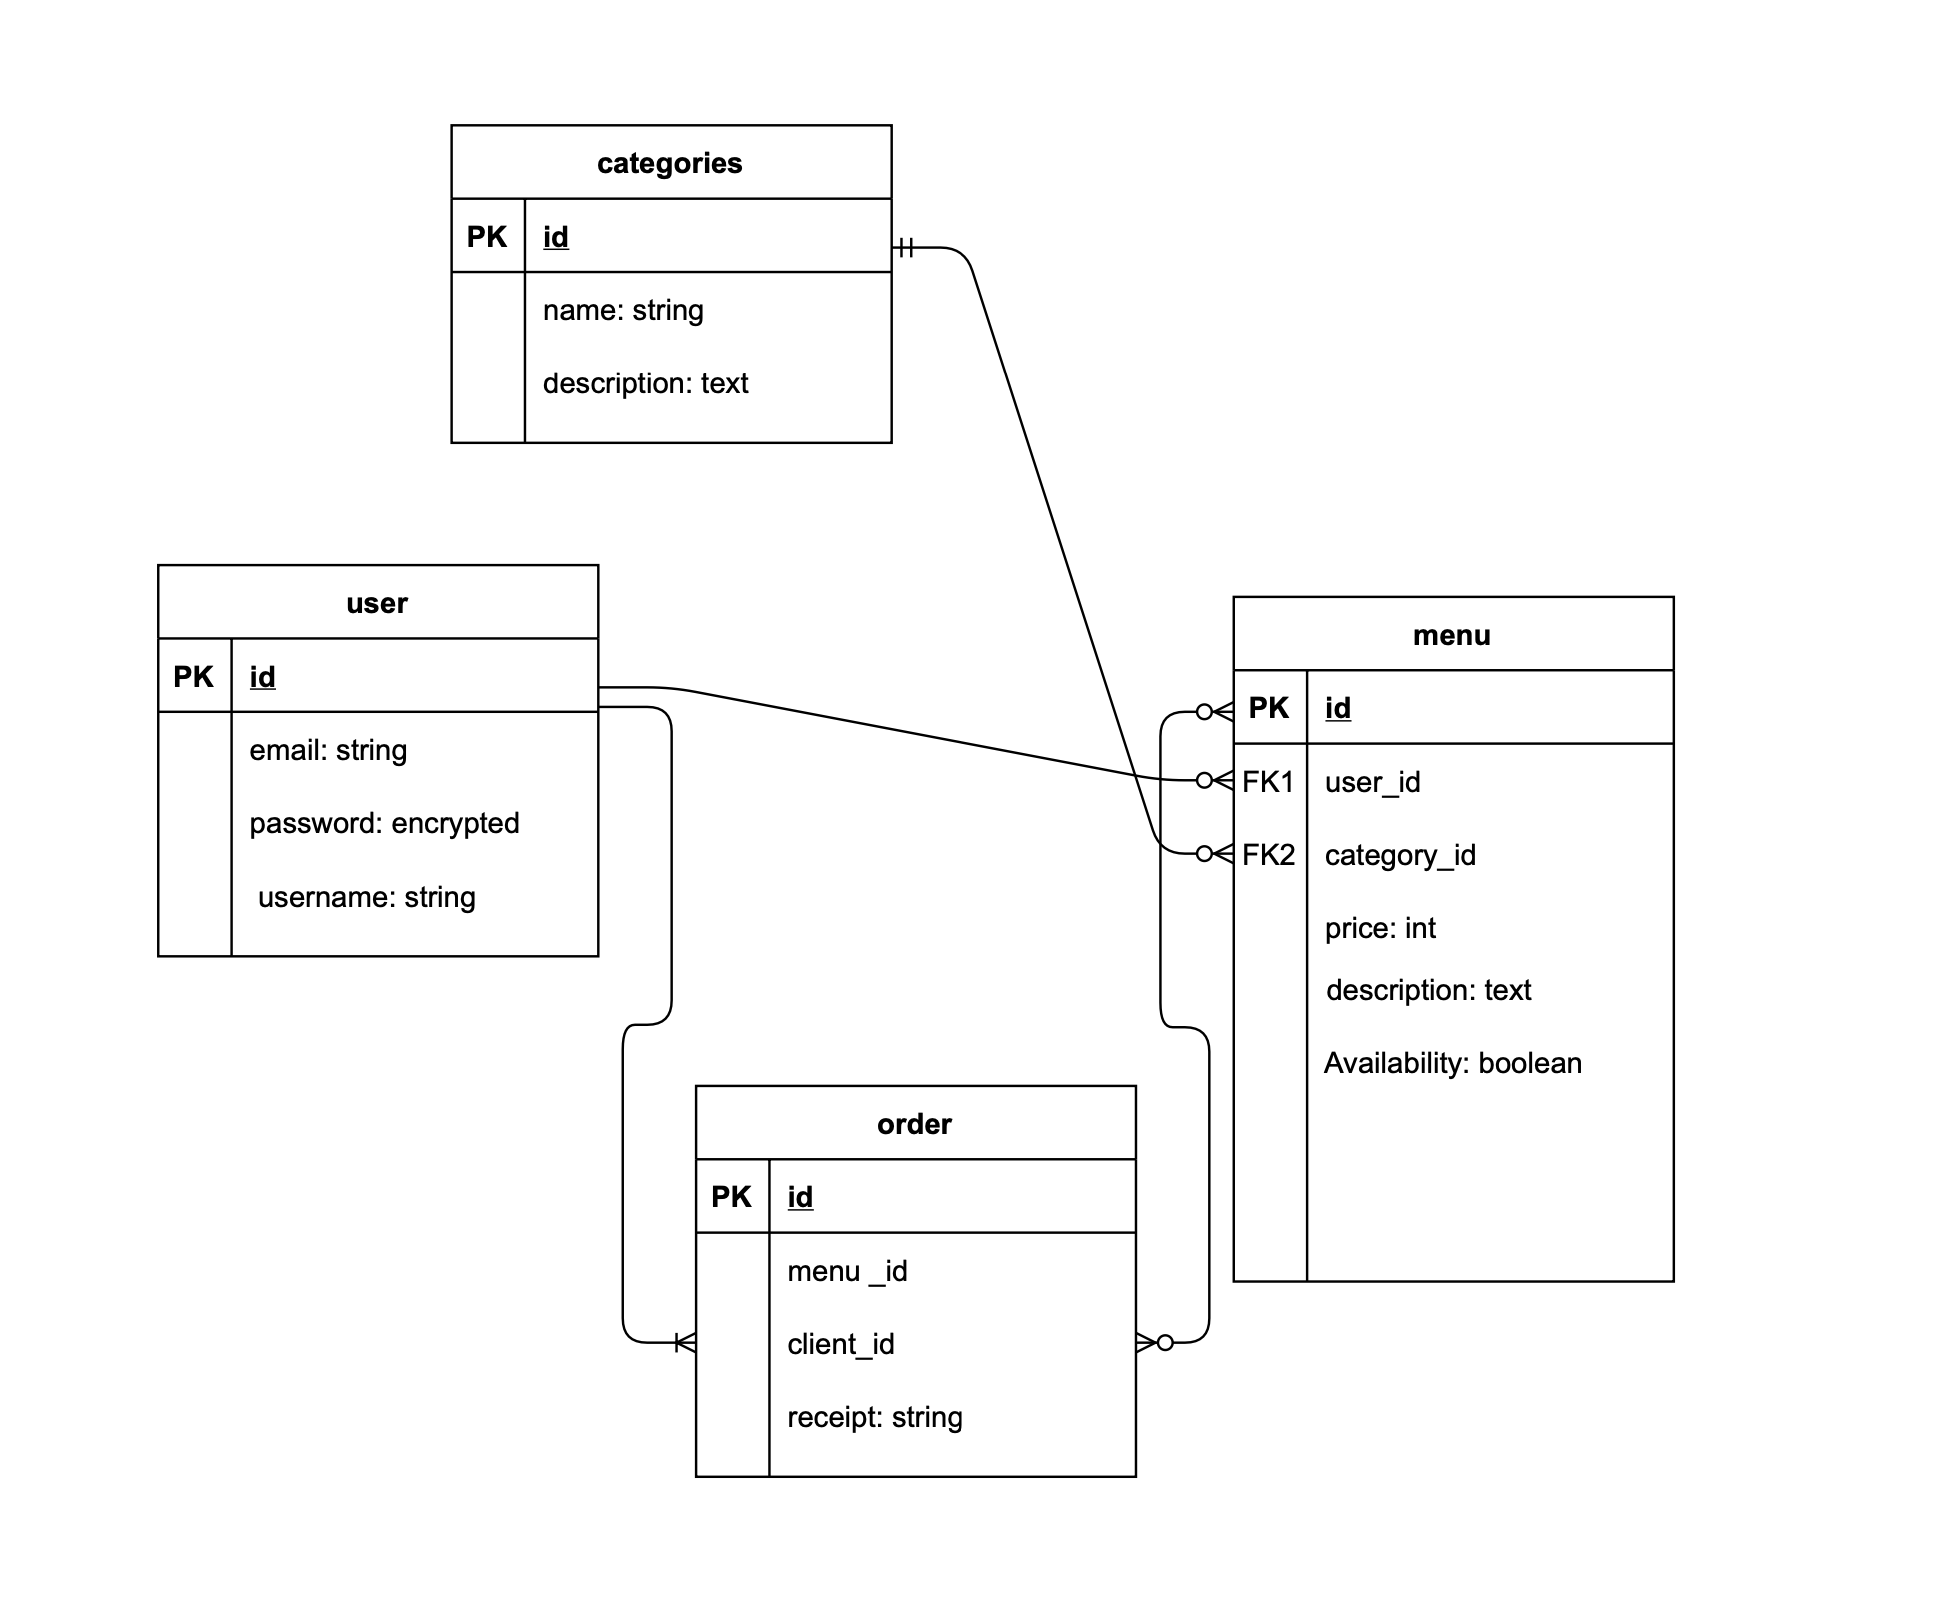
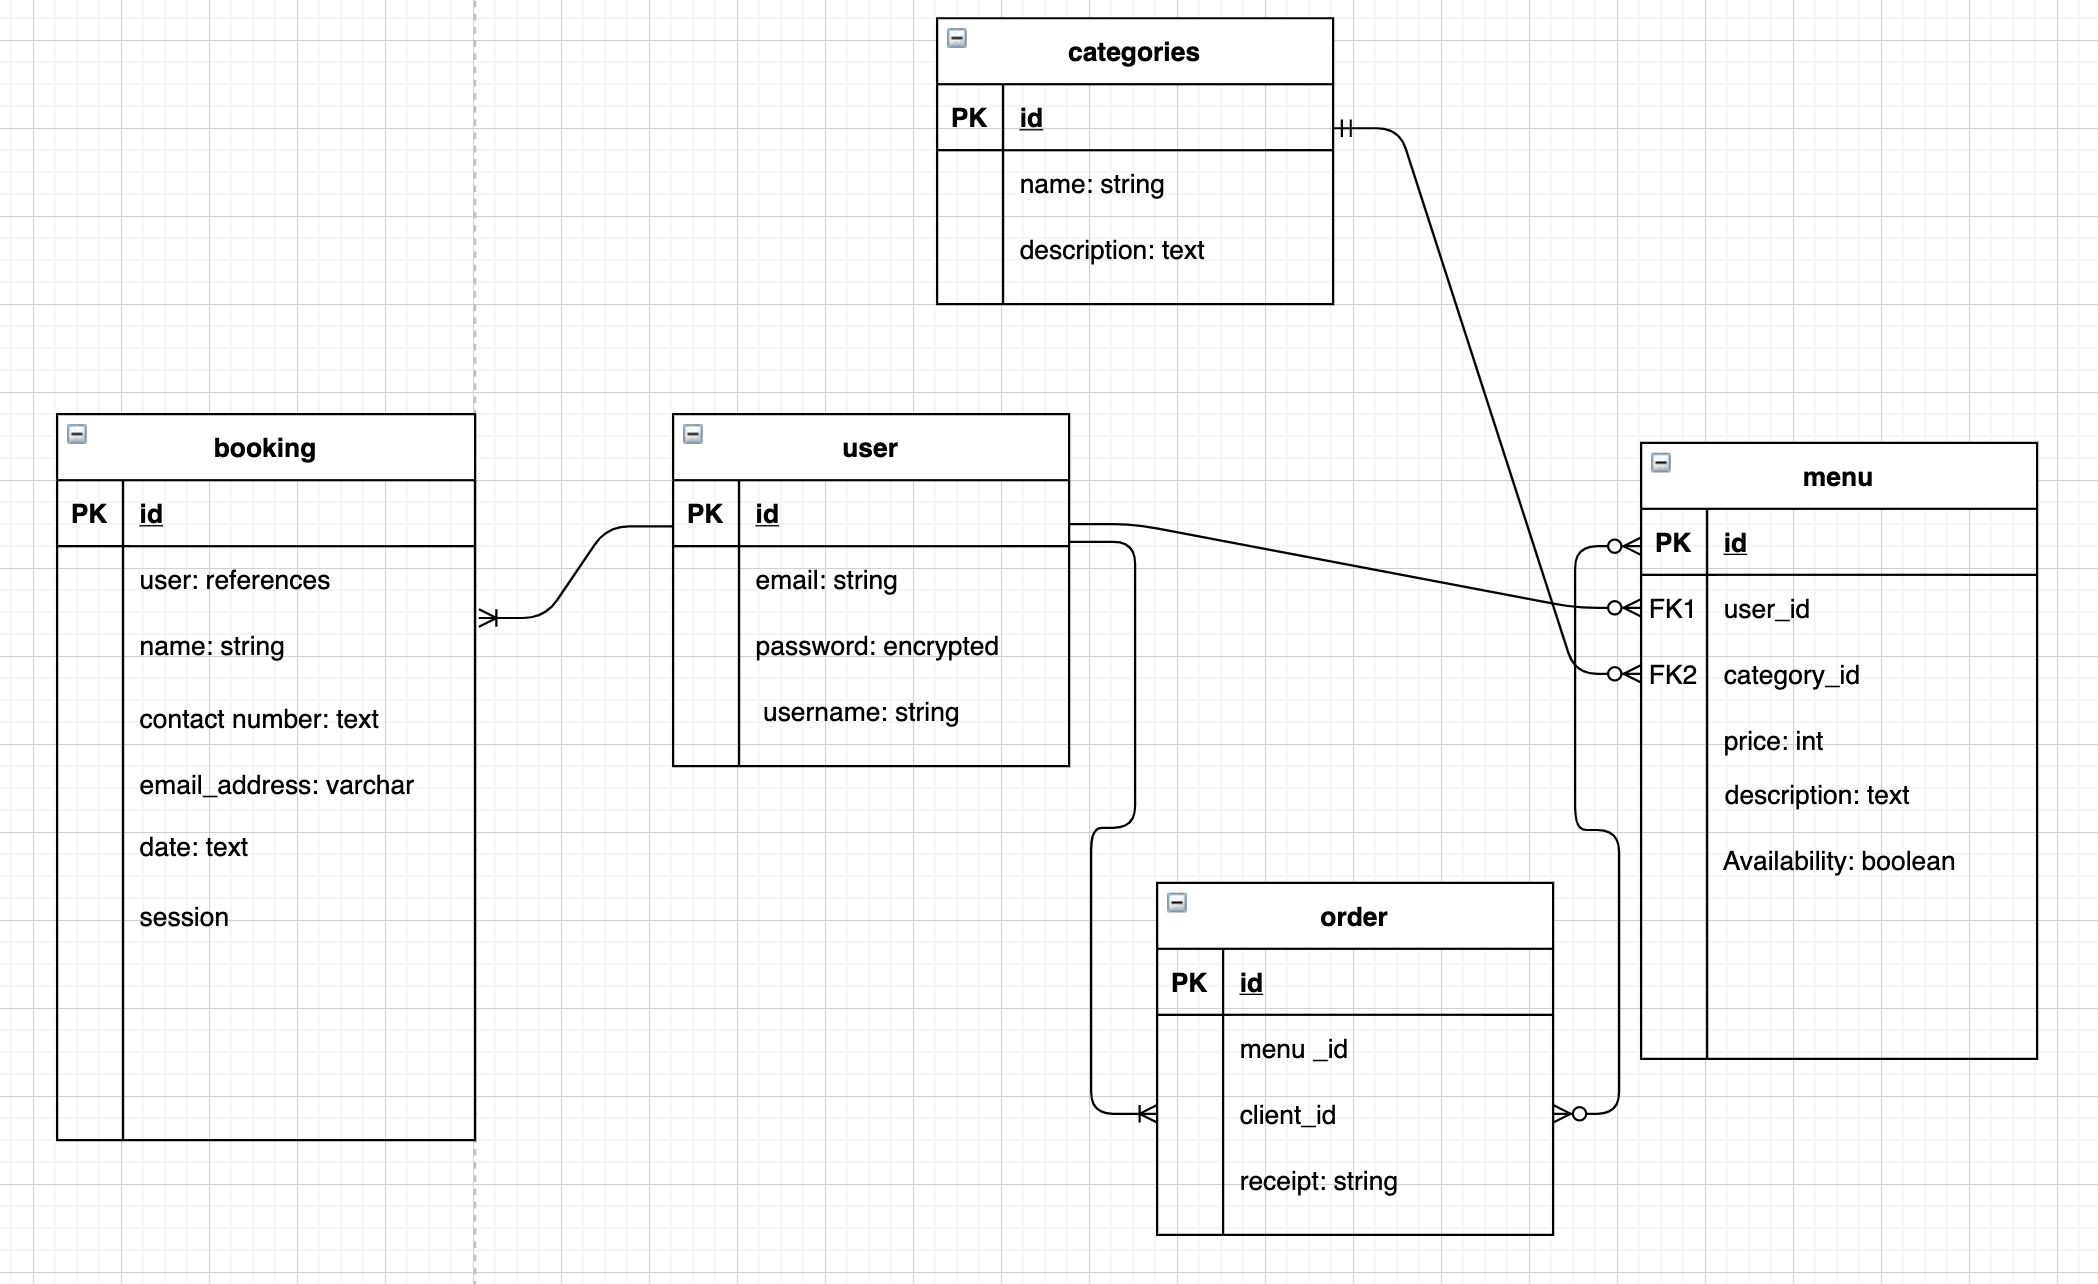
update readme, generate order model

diff --git a/db/schema.rb b/db/schema.rb
@@ -9,8 +9,7 @@
 # migrations use external dependencies or application code.
 #
 # It's strongly recommended that you check this file into your version control system.
-
-ActiveRecord::Schema.define(version: 2021_10_04_052833) do
+ActiveRecord::Schema.define(version: 2021_10_06_021221) do
 
   # These are extensions that must be enabled in order to support this database
   enable_extension "plpgsql"
@@ -89,6 +88,19 @@ ActiveRecord::Schema.define(version: 2021_10_04_052833) do
     t.index ["user_id"], name: "index_menus_on_user_id"
   end
 
+  create_table "orders", force: :cascade do |t|
+    t.bigint "menus_id", null: false
+    t.bigint "buyer_id", null: false
+    t.bigint "seller_id", null: false
+    t.string "reciept_url"
+    t.string "payment_id"
+    t.datetime "created_at", precision: 6, null: false
+    t.datetime "updated_at", precision: 6, null: false
+    t.index ["buyer_id"], name: "index_orders_on_buyer_id"
+    t.index ["menus_id"], name: "index_orders_on_menus_id"
+    t.index ["seller_id"], name: "index_orders_on_seller_id"
+  end
+
   create_table "users", force: :cascade do |t|
     t.string "email", default: "", null: false
     t.string "encrypted_password", default: "", null: false
@@ -109,4 +121,7 @@ ActiveRecord::Schema.define(version: 2021_10_04_052833) do
   add_foreign_key "listings", "users"
   add_foreign_key "menus", "categories"
   add_foreign_key "menus", "users"
+  add_foreign_key "orders", "menus", column: "menus_id"
+  add_foreign_key "orders", "users", column: "buyer_id"
+  add_foreign_key "orders", "users", column: "seller_id"
 end

diff --git a/db/migrate/20211006021221_create_orders.rb b/db/migrate/20211006021221_create_orders.rb
@@ -1,0 +1,13 @@
+class CreateOrders < ActiveRecord::Migration[6.1]
+  def change
+    create_table :orders do |t|
+      t.references :menus, null: false, foreign_key: true
+      t.references :buyer, null: false, foreign_key: {to_table: :users}
+      t.references :seller, null: false, foreign_key: {to_table: :users}
+      t.string :reciept_url
+      t.string :payment_id
+
+      t.timestamps
+    end
+  end
+end

diff --git a/app/controllers/payments_controller.rb b/app/controllers/payments_controller.rb
@@ -11,6 +11,7 @@ class PaymentsController < ApplicationController
           pp payment
           menu_id = payment.metadata.menu_id
           buyer_id = payment.metadata.user_id
-       
+          menu = Menu.find(menu_id)
+          Order.create(menu_id: menu_id, buyer_id: buyer_id, seller_id: menu.id, payment_id: payment_id, reciept_url: payment.charges[0].reciept_url)
      end
 end

diff --git a/app/models/order.rb b/app/models/order.rb
@@ -1,0 +1,5 @@
+class Order < ApplicationRecord
+  belongs_to :menu,
+  belongs_to :buyer, user, foreign_key: 'buyer_id', class_name: "User"
+  belongs_to :seller, :user, foreign_key: 'seller_id', class_name: "User"
+end

diff --git a/app/models/user.rb b/app/models/user.rb
@@ -4,5 +4,6 @@ class User < ApplicationRecord
   devise :database_authenticatable, :registerable,
          :recoverable, :rememberable, :validatable
   has_many :menus
+  has_many :orders
   
 end

diff --git a/spec/models/order_spec.rb b/spec/models/order_spec.rb
@@ -1,0 +1,5 @@
+require 'rails_helper'
+
+RSpec.describe Order, type: :model do
+  pending "add some examples to (or delete) #{__FILE__}"
+end

diff --git a/app/models/booking.rb b/app/models/booking.rb
@@ -1,3 +1,3 @@
 class Booking < ApplicationRecord
-  belongs_to :user
+  belongs_to :users
 end

diff --git a/README.md b/README.md
@@ -26,41 +26,87 @@ Link to [Github](https://github.com/vivian-bb/littledumpling-marketplace)
   - The restaurant could upload their information and story in About us page.
   - The app will require log in for safe purpose.
   - The app can make payment for the order.
-  -
 
 - Sitemap:
+
+![Wireframe Wireframe](/app/assets/images/sitemap.png)
+
 - Screenshots:
-- Target audience:
+
+- Target audience: The small size restaurant that who is unable to build their own app, the restaurant must selling dumplings and the clients will be able to booking and ordering online.
 - Tech stack (e.g. html, css, deployment platform, etc)
 
   - deployment on heroku
   - AWS S3 for database storage
   - UltraHook for public webhook endpoints with development environments
-
   - gem ultrahood for received the webhook on localhost
   - gem simpleform
   - gem bootstrap for styling and layout
   - gem devise for authentication
 
-  User story
+##### R12 User story for your app
 
 LittleFeimiDumplings is a double side website design for a small but have 30 years history of a mather and her daughter's Nickname. During COVID lockdown situation their dumpling restaurant almost collapse, and the old customers can't accept their life is without the favorite dumpling. The good solution is to create a website for online ordering and also provide a good chance to explore more new customers.
 
-Wireframe
-![Wireframe Wireframe](/marketplace/app/assets/images/wireframe.png)
-ERD--database schema design
-![ERD ERD](/marketplace/app/assets/images/erdcopy.png)
-The project is allocated and tracked by trello.
-![ERD ERD](/marketplace/app/assets/images/trelloscreenshot.jpg)
+##### R13 Wireframes for your app
 
-Problem:
+![Wireframe Wireframe](/app/assets/images/wireframe.png)
+Home page
+![Wireframe Wireframe](/app/assets/images/home-wf.png)
+Menu page
+![Wireframe Wireframe](/app/assets/images/menu-list.png)
+Booking page
+![Wireframe Wireframe](/app/assets/images/booking-wf.png)
+About us page
+![Wireframe Wireframe](/app/assets/images/aboutus-wf.png)
+Contact Us page
+![Wireframe Wireframe](/app/assets/images/contactus-wf.png)
 
-- The Category should be a table, but it was setup as a string, so how to change this?
+##### R14 An ERD for your app
 
-  How to generate a new table connect with the original database?
+![ERD ERD](/app/assets/images/erdcopy.png)
 
-- The google map embed false in the contact up page
-- After add the payment button to menu page, the menu page could not add any new menu item sucssesfully.
+##### R15 Explain the different high-level components (abstractions) in your app
+
+##### R16 Detail any third party services that your app will use
+
+- AWS - Amazon web service
+
+  - S3 for database storage
+    ![AWS AWS](/app/assets/images/aws.png)
+  - Identity and access management (IAM) for users management
+    ![AWS AWS](/app/assets/images/authenticateusers.png)
+
+- Stripe - The payment service platform
+  ![Stripe Stripe](/app/assets/images/payment.png)
+
+##### R17 Describe your projects models in terms of the relationships (active record associations) they have with each other
+
+- The User is **has_many** orders and menus, the relationship between the user order and user menu is **One-to-Many**
+- The Order is **belongs_to buyers, sellers and menu** that means the **foreign key** is connect between the table that included buyer seller and menu.
+- The Menu
+  - **has_one_attached picture**, that content the one picture as attached for the dish details.
+  - **belongs_to user and category**, that means the **foreign key** is connect between the user and category table.
+- The Category **has_many menus** the relationship between the category and menu is **One-to-many**.
+- The Booking **belongs_to users** that the **foreign key** is connect between the booking table and user table
+
+##### R18 Discuss the database relations to be implemented in your application
+
+##### R19 Provide your database schema design
+
+- Schema screenshot
+  ![schema schema](/app/assets/images/schema1.png)
+
+  ![schema schema](/app/assets/images/schema2.png)
+
+  ![schema schema](/app/assets/images/schema3.png)
+
+  ![schema schema](/app/assets/images/schema4.png)
+
+  ##### R20 Describe the way tasks are allocated and tracked in your project
+
+- Trello for the project management and tracking.
+  ![Trello trello](/app/assets/images/trelloscreenshot.png)
 
 Explain the different high-level components (abstractions) in your App 0/6
 
